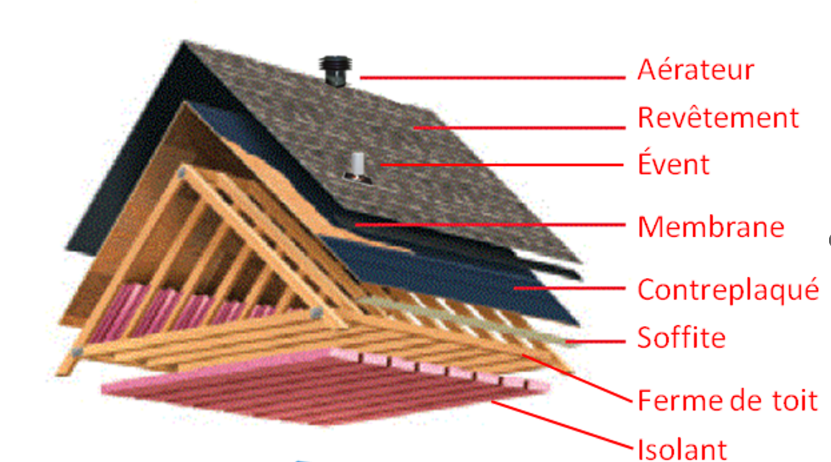
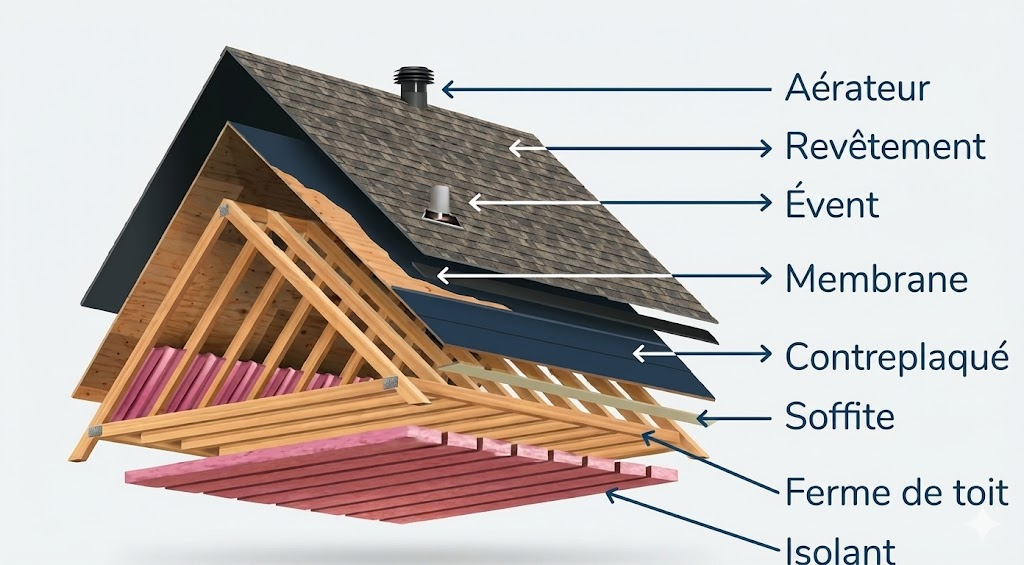
update

diff --git a/Conduite_travaux/S7/L’enveloppe du bâtiment/🌦 Toitures protéger, isoler et sublimer votre bât 246b1ad40d5c80d8ac6bc95aeb165822.md b/Conduite_travaux/S7/L’enveloppe du bâtiment/🌦 Toitures protéger, isoler et sublimer votre bât 246b1ad40d5c80d8ac6bc95aeb165822.md
@@ -22,11 +22,11 @@ Représentant la **cinquième façade** du bâti, elle confère également un ca
 
 <p>&nbsp;</p>
 
-[](https://lh3.googleusercontent.com/qMQPlNEbGe6SwrLXIfB6VU0vfQx1aDyqUUI0bUSfgt6_bK2x0qoxX4T0Nx1TT50bU_o7xxrsVG7gDttoO1owQ7ivmMDCRIGvdzPp4AMaIP-tchaURRzY4-gfpU9J1X8iFQbh2RjU9I8EhiEZlw)
+![](https://raw.githubusercontent.com/bc-ars/plateform-images/refs/heads/main/Conduite_travaux/S7/L%E2%80%99enveloppe%20du%20b%C3%A2timent/%F0%9F%8C%A6%EF%B8%8F%20Toitures%20prot%C3%A9ger%2C%20isoler%20et%20sublimer%20votre%20b%C3%A2t/imagea.png)
 
 <p>&nbsp;</p>
 
-[](https://lh4.googleusercontent.com/b1-KIVjCFDlkYfM28Dlw9j8II2Nh74gItSKg8ywFRn7FiKs-kAGPL-gyJDP-Wj6qVfaO1Xt8-YQUuulJA3vizgC6yToDCwYugjsTN9iasWkpUgHQexiUZHK4NNRTZPnUV56aqZFEa23bBvP-_Q)
+![](https://raw.githubusercontent.com/bc-ars/plateform-images/refs/heads/main/Conduite_travaux/S7/L%E2%80%99enveloppe%20du%20b%C3%A2timent/%F0%9F%8C%A6%EF%B8%8F%20Toitures%20prot%C3%A9ger%2C%20isoler%20et%20sublimer%20votre%20b%C3%A2t/imageb.png)
 
 *Éléments d’une toiture*
 
@@ -56,7 +56,8 @@ Les principaux types sont :
 
 <p>&nbsp;</p>
 
-![image.png](%F0%9F%8C%A6%EF%B8%8F%20Toitures%20prot%C3%A9ger,%20isoler%20et%20sublimer%20votre%20b%C3%A2t/image.png)
+![](https://raw.githubusercontent.com/bc-ars/plateform-images/refs/heads/main/Conduite_travaux/S7/L%E2%80%99enveloppe%20du%20b%C3%A2timent/%F0%9F%8C%A6%EF%B8%8F%20Toitures%20prot%C3%A9ger%2C%20isoler%20et%20sublimer%20votre%20b%C3%A2t/image.png)
+
 
 *Types de toitures en pente (Source: technologie-sciarretta.ovh)*
 
@@ -79,13 +80,13 @@ L’**évacuation des eaux pluviales** est essentielle. Trois principaux disposi
 
 <p>&nbsp;</p>
 
-[](https://lh3.googleusercontent.com/sGIJV-NV3tPNj308HlEHaqG2oVXMiiPWOwyxuVJAS9zi9i789FeX_sJpB02luxw-6wJJyxN84fMEvujjXi7tvCWZjczTBVmf8ZCZPqmhq0BbXlRt8Hf4Tc6MCLCTLELu39UmR6qPkN0oAOgifw)
+![](https://raw.githubusercontent.com/bc-ars/plateform-images/refs/heads/main/Conduite_travaux/S7/L%E2%80%99enveloppe%20du%20b%C3%A2timent/%F0%9F%8C%A6%EF%B8%8F%20Toitures%20prot%C3%A9ger%2C%20isoler%20et%20sublimer%20votre%20b%C3%A2t/imagec.png)
 
 *Chéneau en zinc (Source: Pinterest)*
 
 <p>&nbsp;</p>
 
-[](https://lh3.googleusercontent.com/rsYlyoBGsIMV3WjdOPG8fMYahvHTowB1OyPE3LEvQ5QPqwhWOiquXTbV6o6MbyfLNpX7zxNNO4KmHXQSJMyrBzK1omq86JQufPXC_w-76qtMA13tyuJxWYT0Mx1TcMQGiG01B1s4-TE7BTJQpQ)
+![](https://raw.githubusercontent.com/bc-ars/plateform-images/refs/heads/main/Conduite_travaux/S7/L%E2%80%99enveloppe%20du%20b%C3%A2timent/%F0%9F%8C%A6%EF%B8%8F%20Toitures%20prot%C3%A9ger%2C%20isoler%20et%20sublimer%20votre%20b%C3%A2t/imaged.png)
 
 *Noue en zinc (Source: Pinterest)*
 
@@ -101,7 +102,8 @@ La France est divisée en **3 zones climatiques** qui influencent la pente selon
 
 <p>&nbsp;</p>
 
-[](https://lh5.googleusercontent.com/uimDlqJ1NVCTabQcQHplEQSFIfwC89XJU32Asljl3qPpga8o7l3I09BzlBGYxusp_xrxc2O4GKtmboICcQj59fCErDWXQI9h4C3zWggKIYDT3EaxEDMZmuMgr7SxDzrsyWr-yvjOjiolCSSXeA)
+![](https://raw.githubusercontent.com/bc-ars/plateform-images/refs/heads/main/Conduite_travaux/S7/L%E2%80%99enveloppe%20du%20b%C3%A2timent/%F0%9F%8C%A6%EF%B8%8F%20Toitures%20prot%C3%A9ger%2C%20isoler%20et%20sublimer%20votre%20b%C3%A2t/imagee.png)
+
 
 *Zones géographiques des toitures en pente en France (Source: CERIB)*
 
@@ -117,7 +119,8 @@ Les principales formes : **dôme**, **courbure simple**, **courbure double**, **
 
 <p>&nbsp;</p>
 
-[](https://lh4.googleusercontent.com/1sMASgdV9Up8Jb9HQ5I4Wpq5C2KZIzZmOyUHSCpElGetk1feqeLnT3Uahkotm53hbB6-S1OvH6JW-rTftKUgYDLn7a2c5zpBY-J7RgXB5-ikmgsLYd1YwGHR882BeougzbKyO9zqTM5aaeVZSg)
+![](https://raw.githubusercontent.com/bc-ars/plateform-images/refs/heads/main/Conduite_travaux/S7/L%E2%80%99enveloppe%20du%20b%C3%A2timent/%F0%9F%8C%A6%EF%B8%8F%20Toitures%20prot%C3%A9ger%2C%20isoler%20et%20sublimer%20votre%20b%C3%A2t/imagef.png)
+
 
 *Toiture arrondie en dôme (Source: Pinterest)*
 
@@ -131,7 +134,7 @@ Sans pente, elle sert de **terrasse** ou de **toit végétalisé**. Constituée 
 
 <p>&nbsp;</p>
 
-![image.png](%F0%9F%8C%A6%EF%B8%8F%20Toitures%20prot%C3%A9ger,%20isoler%20et%20sublimer%20votre%20b%C3%A2t/image%201.png)
+![image.png](https://raw.githubusercontent.com/bc-ars/plateform-images/refs/heads/main/Conduite_travaux/S7/L%E2%80%99enveloppe%20du%20b%C3%A2timent/%F0%9F%8C%A6%EF%B8%8F%20Toitures%20prot%C3%A9ger%2C%20isoler%20et%20sublimer%20votre%20b%C3%A2t/image%201.png)
 
 *Composition d’une toiture plate (Source: gustaverideau.com)*
 
@@ -211,13 +214,13 @@ Types principaux : **tuile canal**, **tuile plate** (avec variantes comme la tui
 
 <p>&nbsp;</p>
 
-[](https://lh4.googleusercontent.com/zzJ2PO5wSfHUw4TsROQhyUjspAgGHMQQhnzlwD4G-ElZyHm_j7oWQxA4IwEHgZl1szw83kRjMt86X4pI9tJkGUPPQMNfvSNQOXjDPb_qB3jmT0coisM1QSXMy1fofhS4mYU3ZTLH7icXlBXstg)
+![](https://raw.githubusercontent.com/bc-ars/plateform-images/refs/heads/main/Conduite_travaux/S7/L%E2%80%99enveloppe%20du%20b%C3%A2timent/%F0%9F%8C%A6%EF%B8%8F%20Toitures%20prot%C3%A9ger%2C%20isoler%20et%20sublimer%20votre%20b%C3%A2t/imageg.png)
 
 *Toitures (Source: Pinterest)*
 
 <p>&nbsp;</p>
 
-![image.png](%F0%9F%8C%A6%EF%B8%8F%20Toitures%20prot%C3%A9ger,%20isoler%20et%20sublimer%20votre%20b%C3%A2t/image%202.png)
+![image.png](https://raw.githubusercontent.com/bc-ars/plateform-images/refs/heads/main/Conduite_travaux/S7/L%E2%80%99enveloppe%20du%20b%C3%A2timent/%F0%9F%8C%A6%EF%B8%8F%20Toitures%20prot%C3%A9ger%2C%20isoler%20et%20sublimer%20votre%20b%C3%A2t/image%202.png)
 
 *Types de tuiles (Source: dsdrenov.com)*
 
@@ -237,7 +240,7 @@ La pose se fait au **crochet** ou par **clouage**, sur **liteaux** ou **voliges*
 
 <p>&nbsp;</p>
 
-[](https://lh3.googleusercontent.com/mUd6WNTVyiDh3JLatDQrS0qSrhRRrrEQo-Ws3o66H2bRMyeAQrDlMOGiM-pM-FefJkE7onyFB0QrY2vOdvMdA-jnYbIL8HseHQ1RfWezp0jlVLhPC1K8cULby0p6IjQiTEPFDXoKOvS6iCW5PQ)
+![](https://raw.githubusercontent.com/bc-ars/plateform-images/refs/heads/main/Conduite_travaux/S7/L%E2%80%99enveloppe%20du%20b%C3%A2timent/%F0%9F%8C%A6%EF%B8%8F%20Toitures%20prot%C3%A9ger%2C%20isoler%20et%20sublimer%20votre%20b%C3%A2t/imageh.png)
 
 *Toiture en ardoise (Source: Pinterest)*
 
@@ -253,7 +256,7 @@ Durée de vie moyenne : **25 ans**.
 
 <p>&nbsp;</p>
 
-[](https://lh3.googleusercontent.com/HCZB7XcZ-DtMX0LBoYhwr4C-qqb67w_Y48op5x0fZ6HNmcIhCE_SwcxqHBXF_BmJY5884fyOsx24Tq8TwtidLyxfRYg6QLm9IVONIDNArIz8upIEpv-KpabUExR9VkF7Gwc4HipFf9A5JmWvsQ)
+![](https://raw.githubusercontent.com/bc-ars/plateform-images/refs/heads/main/Conduite_travaux/S7/L%E2%80%99enveloppe%20du%20b%C3%A2timent/%F0%9F%8C%A6%EF%B8%8F%20Toitures%20prot%C3%A9ger%2C%20isoler%20et%20sublimer%20votre%20b%C3%A2t/imagei.png)
 
 *Toiture en shingle (Source: Pinterest)*
 
@@ -267,7 +270,7 @@ Les **tavaillons** ou **bardeaux de bois** (mélèze, châtaignier, red cedar) s
 
 <p>&nbsp;</p>
 
-[](https://lh6.googleusercontent.com/hge1xDt3CUXGWr-2ooF_TRhoyKQdSPfwkHkOqFa8fDrAoE8RoyHUy7AbU1QJAPCmJO6UAMQaTJbB1JD3Zk9gXzeM3iSdXQ4D8A376JKMNCtmMX0wE-3peTRvyj_UVFIbvg6lKNm63NYbIQ6cAQ)
+![](https://raw.githubusercontent.com/bc-ars/plateform-images/refs/heads/main/Conduite_travaux/S7/L%E2%80%99enveloppe%20du%20b%C3%A2timent/%F0%9F%8C%A6%EF%B8%8F%20Toitures%20prot%C3%A9ger%2C%20isoler%20et%20sublimer%20votre%20b%C3%A2t/imagej.png)
 
 *Toiture en tavaillon (Source: Pinterest)*
 
@@ -281,7 +284,7 @@ La **lauze**, pierre utilisée en couverture, reste typique des **régions monta
 
 <p>&nbsp;</p>
 
-[](https://lh6.googleusercontent.com/uj-IfvTR4cKARMuzxsB7NUk1snfAF5t0_bZ4LBN5asx7MKJmq_6epYUjqzKnDIbUuezExsgvcyT2OKnmgyiF9wMuqWCBZIS5cyxUpKZU3dS2p78Zz6JAaTlfpfE1S2YazstVgGX8kYPe4CcWIg)
+![](https://raw.githubusercontent.com/bc-ars/plateform-images/refs/heads/main/Conduite_travaux/S7/L%E2%80%99enveloppe%20du%20b%C3%A2timent/%F0%9F%8C%A6%EF%B8%8F%20Toitures%20prot%C3%A9ger%2C%20isoler%20et%20sublimer%20votre%20b%C3%A2t/imagek.png)
 
 *Toiture en lauze (Source: Pinterest)*
 
@@ -308,7 +311,7 @@ Le **zinc** et le **cuivre** se patinent (gris platine, noir ou vert). Souples e
 
 <p>&nbsp;</p>
 
-[](https://lh5.googleusercontent.com/pTbwHkd0NtsP8j5KbeGNFOzAKhHX2u67NvH2NurqVfcxHaAsHvAu0H5SIujOc7_MLO11IqlhVXFLGU3GmaM3JJFC_KT0s3RjNX9ToztLIpu99O7_h9_q33g4jhLozX6pb-VtUxeg3qGunvjSSA)
+![](https://raw.githubusercontent.com/bc-ars/plateform-images/refs/heads/main/Conduite_travaux/S7/L%E2%80%99enveloppe%20du%20b%C3%A2timent/%F0%9F%8C%A6%EF%B8%8F%20Toitures%20prot%C3%A9ger%2C%20isoler%20et%20sublimer%20votre%20b%C3%A2t/imagel.png)
 
 *Couverture en zinc (Source: tratidion-toiture.be)*
 
@@ -324,7 +327,7 @@ Des versions **double peau** améliorent l’**isolation** et l’**acoustique**
 
 <p>&nbsp;</p>
 
-[](https://lh6.googleusercontent.com/ow6HSSZxJSPu5p4DSvG-l82hmRnlfq-hWqSMeKXtdhnVLkSrLZE3DqFqHSYt6nvQLjnsZTT2pwHGUyRKYQUKuq5hBVTkeghFizE4tq1xrtSAKdlmEXzkc9sV0iuWdf5F7h_F3ewIo3aGQ5NPKQ)
+![](https://raw.githubusercontent.com/bc-ars/plateform-images/refs/heads/main/Conduite_travaux/S7/L%E2%80%99enveloppe%20du%20b%C3%A2timent/%F0%9F%8C%A6%EF%B8%8F%20Toitures%20prot%C3%A9ger%2C%20isoler%20et%20sublimer%20votre%20b%C3%A2t/imagem.png)
 
 *Toiture en bac acier (Source: Leroy Merlin)*
 
@@ -346,7 +349,7 @@ Composé d’un **profil métallique**, d’un **isolant** et d’un **deuxième
 
 <p>&nbsp;</p>
 
-[](https://lh6.googleusercontent.com/Spu79zQxzxORqMQjIPzamnu7Ml4YXZuJRYDhHeljkbLwb22Fg-_ur8d4LHe6nGvKOX6MGZRKc9Gbz2LzpMG0moVGjahm80eU7sGc2Az7h5yoKlI1KIK4ySCDIx_gGxkGeiUHy5KbEMlHqUzY4g)
+![](https://raw.githubusercontent.com/bc-ars/plateform-images/refs/heads/main/Conduite_travaux/S7/L%E2%80%99enveloppe%20du%20b%C3%A2timent/%F0%9F%8C%A6%EF%B8%8F%20Toitures%20prot%C3%A9ger%2C%20isoler%20et%20sublimer%20votre%20b%C3%A2t/imagen.png)
 
 *Source: faynot.com*
 
@@ -360,7 +363,7 @@ Composé d’un **profil métallique**, d’un **isolant** et d’un **deuxième
 
 <p>&nbsp;</p>
 
-[](https://lh4.googleusercontent.com/nS9OJfX9YxN410S91qbYVeYyboQ4F8qzQ9W_YZmQM9k1TbA-mil_UCGe8orgiFzpvL5rzlZm3k5r1vYDAX0SPfrsMhGAWEq7XGOIJEu4iB4dCevwqsfuYZBe1o8zQsW4BGPY1mqSwzhlQtOZlA)
+![](https://raw.githubusercontent.com/bc-ars/plateform-images/refs/heads/main/Conduite_travaux/S7/L%E2%80%99enveloppe%20du%20b%C3%A2timent/%F0%9F%8C%A6%EF%B8%8F%20Toitures%20prot%C3%A9ger%2C%20isoler%20et%20sublimer%20votre%20b%C3%A2t/imageo.png)
 
 *Tôles ondulées synthétiques (Source: Pinterest)*
 
@@ -374,7 +377,7 @@ La **toiture végétalisée**, composée de plantations sur dalle béton, offre 
 
 <p>&nbsp;</p>
 
-[](https://lh5.googleusercontent.com/pcUcn8AD18LHWFId_O9nQziJ78oZkdBFhopyRACQF6AX--Vw6Ono06MMp8QyT3eqIldlDhI23tfphRKM6fhfi3O2gttu-CEW-zVQUgjy6KDPkrpcN90mkWVoPnKGxFzwiRpmXK-NpBJZXhbueQ)
+![](https://raw.githubusercontent.com/bc-ars/plateform-images/refs/heads/main/Conduite_travaux/S7/L%E2%80%99enveloppe%20du%20b%C3%A2timent/%F0%9F%8C%A6%EF%B8%8F%20Toitures%20prot%C3%A9ger%2C%20isoler%20et%20sublimer%20votre%20b%C3%A2t/imagep.png)
 
 *Toiture végétalisée (Source: Pinterest)*
 
@@ -388,7 +391,7 @@ Les **toitures en fibrociment** contenant de l’**amiante** nécessitent un **r
 
 <p>&nbsp;</p>
 
-[](https://lh3.googleusercontent.com/yGFjHEAUYKdEWSd0rISh88GJFq5mQBAIPuOMSUsUe0LWXFGWM0vxPK46BUZNiJULzTDLY5DpL7o38E5BUIxUsD3HgqGsZd0omIGIXebDwEreiKs8kWcy4Kus-HDu-wtfFFiR-TcrFEV91xiCwA)
+![](https://raw.githubusercontent.com/bc-ars/plateform-images/refs/heads/main/Conduite_travaux/S7/L%E2%80%99enveloppe%20du%20b%C3%A2timent/%F0%9F%8C%A6%EF%B8%8F%20Toitures%20prot%C3%A9ger%2C%20isoler%20et%20sublimer%20votre%20b%C3%A2t/imageq.png)
 
 *Toiture en fibro-ciment amianté (Source: Pinterest)*
 
@@ -402,7 +405,7 @@ La **sur-toiture** consiste à poser une nouvelle couverture (souvent **bac acie
 
 <p>&nbsp;</p>
 
-[](https://lh3.googleusercontent.com/IwbA-QM34EbvCqI3Cjyb5-p7SKL2CkDgkzKZO0KT6-EIA7vpbsDI5GNoT3iRxUmCgzDYLq-qPcJmF6UBDso390AJbKeqpzCMMMYwqD9U98CfkEHJWn_KhPS8QE3GF15_qMBhq2-ED-sx3pwcKQ)
+![](https://raw.githubusercontent.com/bc-ars/plateform-images/refs/heads/main/Conduite_travaux/S7/L%E2%80%99enveloppe%20du%20b%C3%A2timent/%F0%9F%8C%A6%EF%B8%8F%20Toitures%20prot%C3%A9ger%2C%20isoler%20et%20sublimer%20votre%20b%C3%A2t/imager.png)
 
 *Système de sur-toiture (Source: Leroy Merlin)*
 
